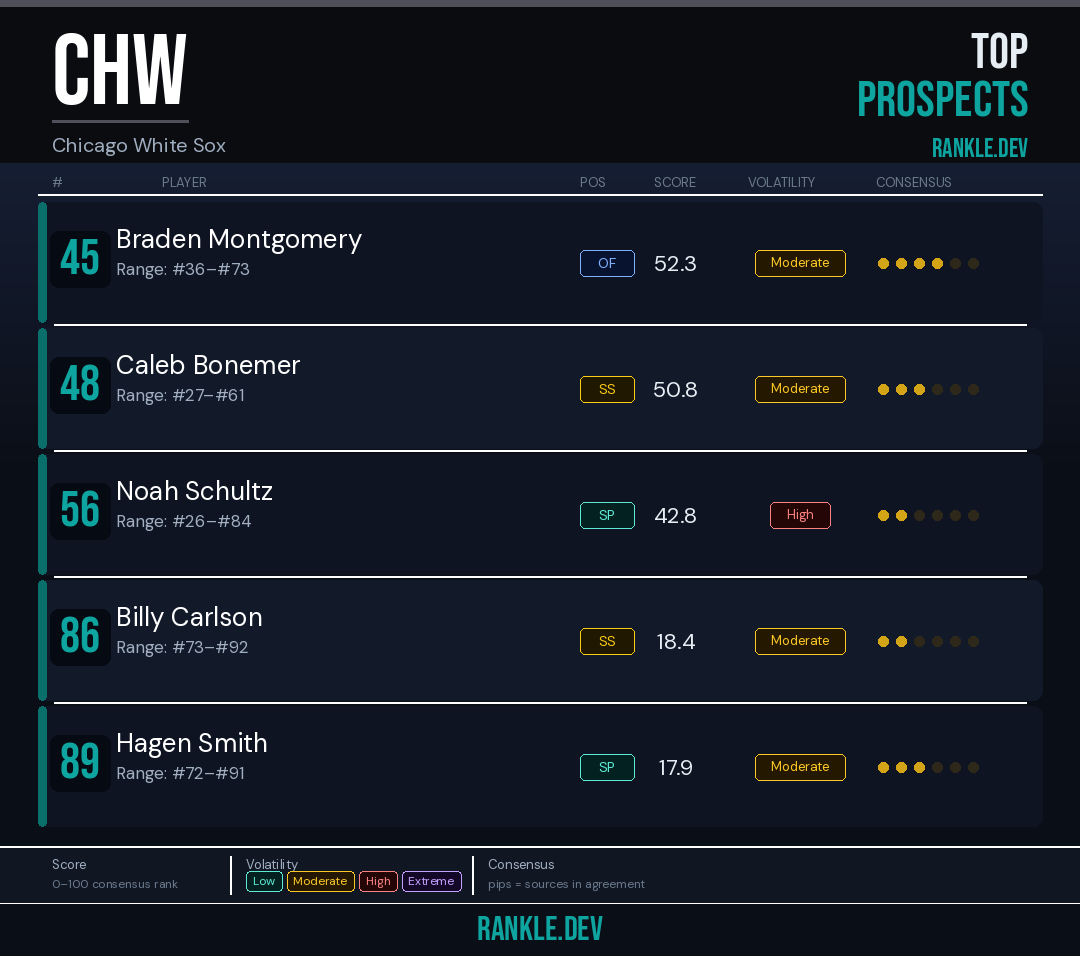
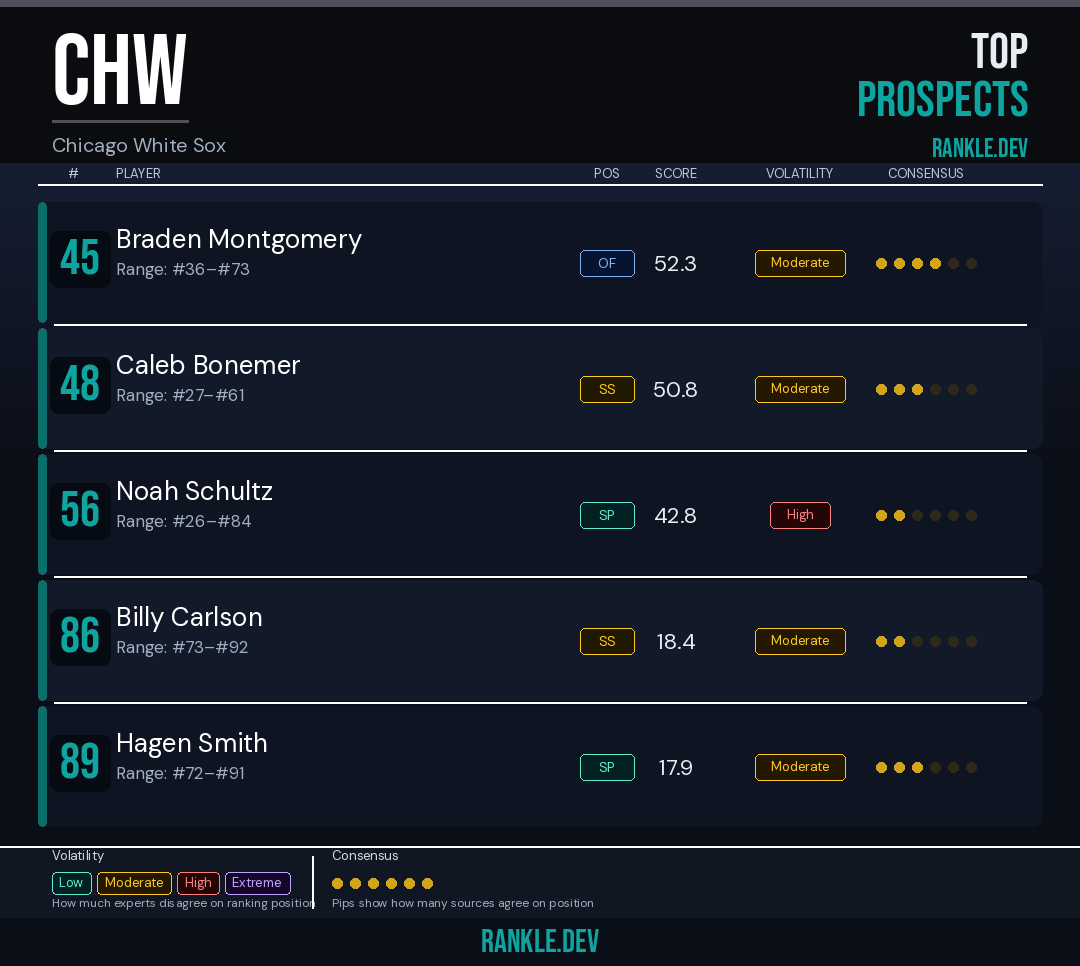
Team graphic: column alignment, header contrast, legend overhaul
- Measure rank width before drawing headers so all columns align
- All column headers centered over their data using anchor=mm
- Header color stepped up to (190,200,215) for clear readability
- Row data uses same column centers (C_POS/C_SCR/C_VOL/C_CONS)
- Legend: removed Score section, two groups only
- Volatility: all 4 badges + "How much experts disagree on ranking position"
- Consensus: all-filled dots example + "Pips show how many sources agree on position"
- Legend label/hint contrast both bumped

diff --git a/team_graphic.py b/team_graphic.py
@@ -331,19 +331,7 @@ def generate_team_graphic(team_code: str) -> BytesIO:
     draw.text((W - 52, 80),  "PROSPECTS",  font=_fb(50), fill=TEAL,      anchor="rt")
     draw.text((W - 52, 138), "RANKLE.DEV", font=_fb(26), fill=TEAL,      anchor="rt")
 
-    # ── Column headers ────────────────────────────────────────────────────────
-    COL_Y = HEADER_H + 12
-    hf = _fd(13)
-    # Columns: # | PLAYER | POS | SCORE | VOLATILITY | CONSENSUS
-    draw.text(( 52, COL_Y), "#",          font=hf, fill=TEXT_LO)
-    draw.text((162, COL_Y), "PLAYER",     font=hf, fill=TEXT_LO)
-    draw.text((580, COL_Y), "POS",        font=hf, fill=TEXT_LO)
-    draw.text((654, COL_Y), "SCORE",      font=hf, fill=TEXT_LO)
-    draw.text((748, COL_Y), "VOLATILITY", font=hf, fill=TEXT_LO)
-    draw.text((876, COL_Y), "CONSENSUS",  font=hf, fill=TEXT_LO)
-    draw.rectangle([38, COL_Y + 20, W - 38, COL_Y + 21], fill=(255, 255, 255, 10))
-
-    # ── Measure rank column width (handles up to 3-digit ranks) ──────────────
+    # ── Measure rank column width first (needed for header alignment) ─────────
     rank_font = _fb(50)
     tmp_d = ImageDraw.Draw(Image.new("RGB", (1, 1)))
     max_rw = max(
@@ -352,6 +340,26 @@ def generate_team_graphic(team_code: str) -> BytesIO:
     )
     RANK_RIGHT = 52 + int(max_rw) + 8
     NAME_LEFT  = RANK_RIGHT + 16
+
+    # Data column centers (used for both headers and row data)
+    C_RANK = (46 + RANK_RIGHT) // 2          # center of rank pill zone
+    C_POS  = 607
+    C_SCR  = 676
+    C_VOL  = 800
+    DOT_W  = 6 * 10 + 5 * 8                 # dots block width = 100px
+    C_CONS = 876 + DOT_W // 2               # center of dots block
+
+    # ── Column headers ────────────────────────────────────────────────────────
+    COL_Y = HEADER_H + 12
+    hf = _fd(13)
+    HDR_COLOR = (190, 200, 215)              # brighter than TEXT_LO, below WHITE_HI
+    draw.text((C_RANK,  COL_Y), "#",          font=hf, fill=HDR_COLOR, anchor="mm")
+    draw.text((NAME_LEFT, COL_Y), "PLAYER",   font=hf, fill=HDR_COLOR, anchor="lm")
+    draw.text((C_POS,   COL_Y), "POS",        font=hf, fill=HDR_COLOR, anchor="mm")
+    draw.text((C_SCR,   COL_Y), "SCORE",      font=hf, fill=HDR_COLOR, anchor="mm")
+    draw.text((C_VOL,   COL_Y), "VOLATILITY", font=hf, fill=HDR_COLOR, anchor="mm")
+    draw.text((C_CONS,  COL_Y), "CONSENSUS",  font=hf, fill=HDR_COLOR, anchor="mm")
+    draw.rectangle([38, COL_Y + 10, W - 38, COL_Y + 11], fill=(255, 255, 255, 18))
 
     # ── Prospect rows ─────────────────────────────────────────────────────────
     ROW_Y0 = COL_Y + 28
@@ -394,18 +402,17 @@ def generate_team_graphic(team_code: str) -> BytesIO:
                       font=_fd(17), fill=TEXT_MID)
 
             # POS badge
-            _draw_pos_badge(draw, 607, mid_y - 2, p["pos"])
+            _draw_pos_badge(draw, C_POS, mid_y - 2, p["pos"])
 
             # Rankle Score
-            draw.text((676, mid_y - 2), f"{p['rankleScore']:.1f}",
+            draw.text((C_SCR, mid_y - 2), f"{p['rankleScore']:.1f}",
                       font=_fd(22), fill=WHITE_HI, anchor="mm")
 
             # Volatility badge
-            _draw_vol_badge(draw, 800, mid_y - 2, p["volatility"])
+            _draw_vol_badge(draw, C_VOL, mid_y - 2, p["volatility"])
 
-            # Consensus dots (centered block)
-            dot_block_w = 6 * 10 + 5 * 8   # 6 dots × 10px + 5 gaps × 8px
-            dots_left   = 876 + (104 - dot_block_w) // 2
+            # Consensus dots — centered on C_CONS
+            dots_left = C_CONS - DOT_W // 2
             _draw_consensus_dots(draw, dots_left, mid_y - 2,
                                  filled=p["consensusAgreement"])
 
@@ -415,61 +422,59 @@ def generate_team_graphic(team_code: str) -> BytesIO:
                 draw.rectangle([54, sy, W - 54, sy + 1], fill=(255, 255, 255, 8))
 
     # ── Footer / legend ───────────────────────────────────────────────────────
-    # Mirrors the site's metrics-legend bar: Score | Volatility badges | Consensus dots
     FY = ROW_Y0 + n_rows * ROW_H + PAD
 
-    # Legend background strip
-    LEG_H = 58
+    # Legend: two groups — Volatility | Consensus
+    LEG_H  = 72
+    LBL_F  = _fd(13)
+    HINT_F = _fd(12)
+    LBL_C  = (210, 218, 228)    # bright enough to read clearly
+    HINT_C = (160, 174, 192)    # TEXT_MID
+
     draw.rectangle([0, FY, W, FY + LEG_H], fill=(16, 22, 34))
-    draw.rectangle([0, FY,     W, FY + 1],      fill=(255, 255, 255, 18))
-    draw.rectangle([0, FY + LEG_H - 1, W, FY + LEG_H], fill=(255, 255, 255, 10))
+    draw.rectangle([0, FY, W, FY + 1], fill=(255, 255, 255, 22))
 
-    lbl_f  = _fd(13)   # group label (e.g. "Score")
-    hint_f = _fd(12)   # hint text
+    GX  = 52
+    TOP = FY + 10
+    MID = FY + 37
+    BOT = FY + 57
 
-    LY = FY + LEG_H // 2   # vertical centre of legend
+    # ── Group 1: Volatility ───────────────────────────────────────────────────
+    draw.text((GX, TOP), "Volatility", font=LBL_F, fill=LBL_C, anchor="lm")
+    draw.text((GX, BOT), "How much experts disagree on ranking position",
+              font=HINT_F, fill=HINT_C, anchor="lm")
 
-    # ── Group 1: Score ────────────────────────────────────────────────────────
-    GX = 52
-    draw.text((GX, LY - 10), "Score",              font=lbl_f,  fill=TEXT_MID, anchor="lm")
-    draw.text((GX, LY + 9),  "0–100 consensus rank", font=hint_f, fill=TEXT_LO,  anchor="lm")
-
-    # ── Separator 1 ───────────────────────────────────────────────────────────
-    SEP1 = 230
-    draw.rectangle([SEP1, FY + 10, SEP1 + 1, FY + LEG_H - 10], fill=(255, 255, 255, 18))
-
-    # ── Group 2: Volatility ───────────────────────────────────────────────────
-    GX = SEP1 + 16
-    draw.text((GX, LY - 10), "Volatility", font=lbl_f, fill=TEXT_MID, anchor="lm")
     bx = GX
-    vol_items = [("Low", "Low"), ("Moderate", "Moderate"), ("High", "High"), ("Extreme", "Extreme")]
-    for label, vol_key in vol_items:
+    for label, vol_key in [("Low","Low"),("Moderate","Moderate"),("High","High"),("Extreme","Extreme")]:
         bg_c, fg = VOL_COLORS[vol_key]
-        bw = int(_fd(12).getlength(label)) + 14
-        bh = 20
-        by = LY + 6 - bh // 2
+        bw = int(_fd(13).getlength(label)) + 16
+        bh = 22
+        by = MID - bh // 2
         draw.rounded_rectangle([bx, by, bx + bw, by + bh], radius=4,
                                 fill=(bg_c[0]//5, bg_c[1]//5, bg_c[2]//5))
         draw.rounded_rectangle([bx, by, bx + bw, by + bh], radius=4,
                                 outline=fg, width=1)
-        draw.text((bx + bw // 2, by + bh // 2), label, font=_fd(12), fill=fg, anchor="mm")
-        bx += bw + 5
+        draw.text((bx + bw // 2, MID), label, font=_fd(13), fill=fg, anchor="mm")
+        bx += bw + 6
 
-    # ── Separator 2 ───────────────────────────────────────────────────────────
-    SEP2 = bx + 6
-    draw.rectangle([SEP2, FY + 10, SEP2 + 1, FY + LEG_H - 10], fill=(255, 255, 255, 18))
+    # ── Separator ─────────────────────────────────────────────────────────────
+    SEP = bx + 16
+    draw.rectangle([SEP, FY + 10, SEP + 1, FY + LEG_H - 10], fill=(255, 255, 255, 22))
 
-    # ── Group 3: Consensus ────────────────────────────────────────────────────
-    GX = SEP2 + 16
-    draw.text((GX, LY - 10), "Consensus", font=lbl_f, fill=TEXT_MID, anchor="lm")
-    draw.text((GX, LY + 9),  "pips = sources in agreement", font=hint_f, fill=TEXT_LO, anchor="lm")
+    # ── Group 2: Consensus ────────────────────────────────────────────────────
+    GX2 = SEP + 20
+    draw.text((GX2, TOP), "Consensus", font=LBL_F, fill=LBL_C, anchor="lm")
+    draw.text((GX2, BOT), "Pips show how many sources agree on position",
+              font=HINT_F, fill=HINT_C, anchor="lm")
+    _draw_consensus_dots(draw, GX2, MID, filled=6)   # all filled as example
 
     # ── Branding strip ────────────────────────────────────────────────────────
-    draw.rectangle([0, FY + LEG_H, W, FY + LEG_H + 52], fill=(10, 14, 22))
-    draw.text((W // 2, FY + LEG_H + 26), "RANKLE.DEV",
-              font=_fb(34), fill=TEAL, anchor="mm")
+    BRAND_H = 48
+    draw.rectangle([0, FY + LEG_H, W, FY + LEG_H + BRAND_H], fill=(10, 14, 22))
+    draw.text((W // 2, FY + LEG_H + BRAND_H // 2),
+              "RANKLE.DEV", font=_fb(32), fill=TEAL, anchor="mm")
 
-    FOOTER_H = LEG_H + 52
+    FOOTER_H = LEG_H + BRAND_H
 
     # ── Crop and return ───────────────────────────────────────────────────────
     content_h = FY + FOOTER_H
